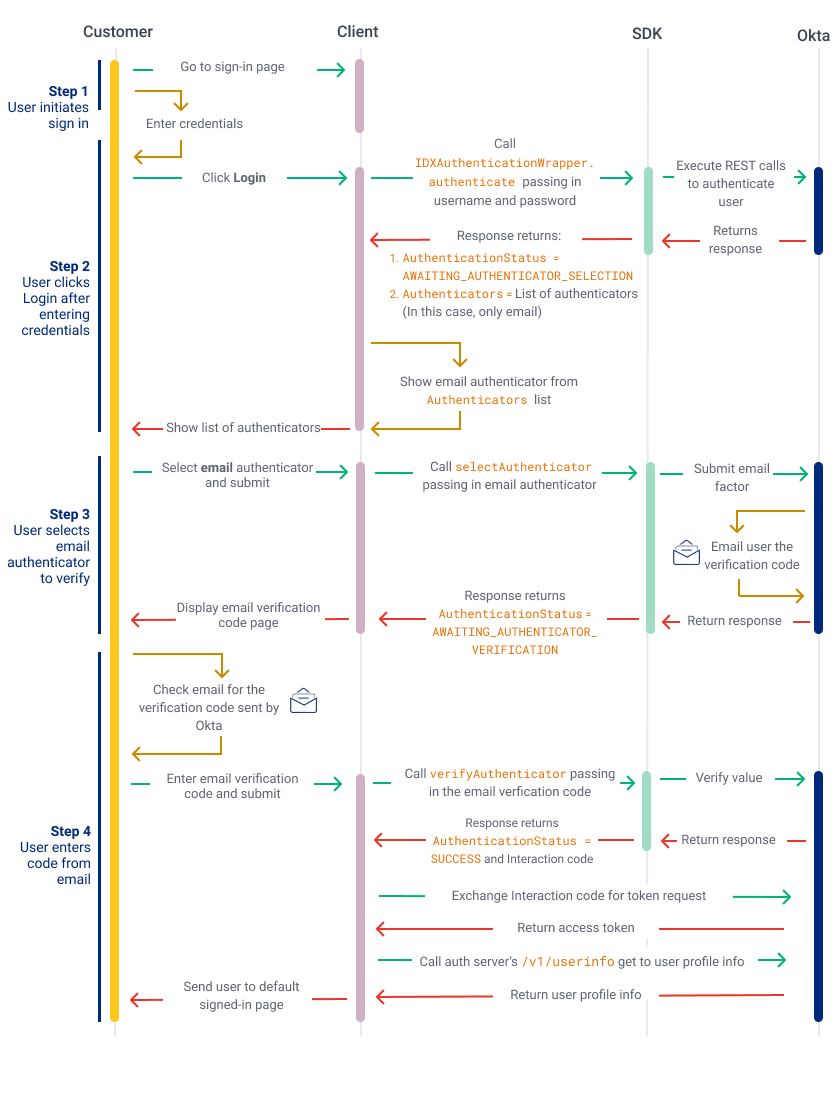
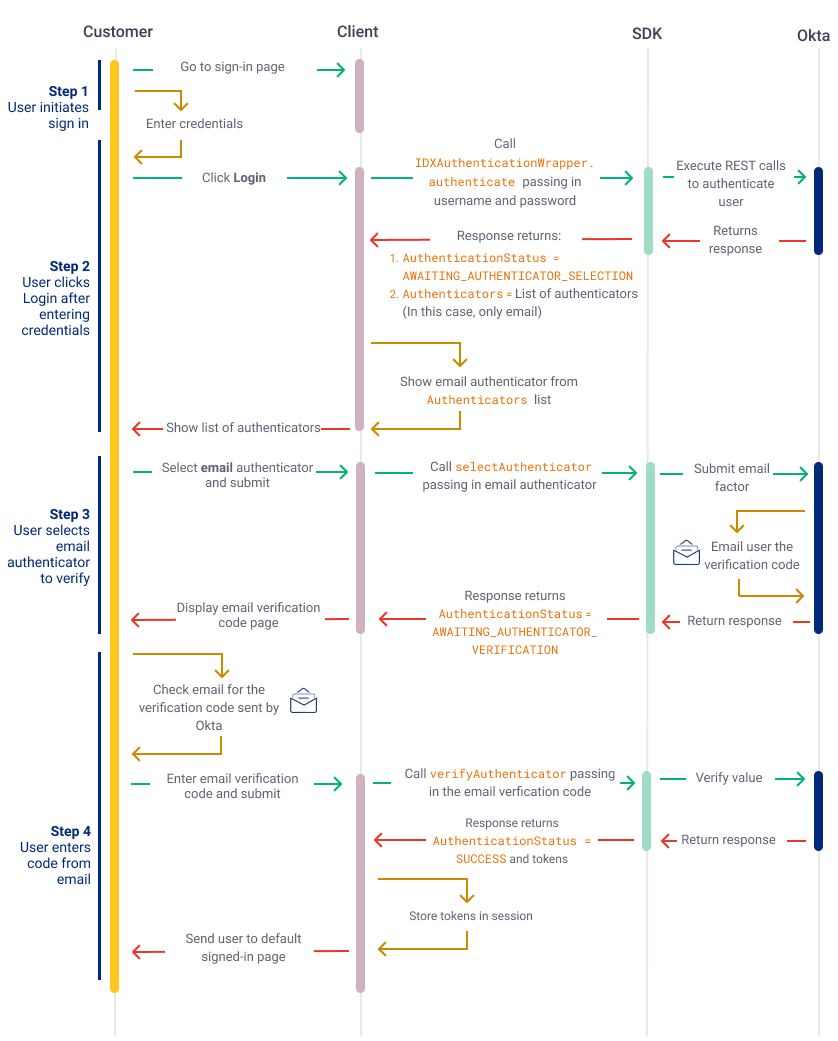
remove /v1/userinfo step in diagram and description

diff --git a/packages/@okta/vuepress-site/docs/guides/oie-embedded-sdk-use-cases/oie-embedded-sdk-use-case-sign-in-pwd-email/java/integrationsteps.md b/packages/@okta/vuepress-site/docs/guides/oie-embedded-sdk-use-cases/oie-embedded-sdk-use-case-sign-in-pwd-email/java/integrationsteps.md
@@ -69,6 +69,4 @@ AuthenticationResponse authenticationResponse =
    idxAuthenticationWrapper.verifyAuthenticator(proceedContext, verifyAuthenticatorOptions);
 ```
 
-If the request to verify the code is successful, the SDK returns an `AuthenticationResponse` object with `AuthenticationStatus=SUCCESS` and the user is successfully signed in.
-
-Use the `AuthenticationResponse.getTokenResponse()` method to retrieve a token to access user profile data before redirecting the user to the default signed-in page. See [Get user profile information after sign in](/docs/guides/oie-embedded-sdk-alternate-flows/java/main/#get-user-profile-information-after-sign-in) for details.
+If the request to verify the code is successful, the SDK returns an `AuthenticationResponse` object with `AuthenticationStatus=SUCCESS` and the user is successfully signed in. Use the `AuthenticationResponse.getTokenResponse()` method to retrieve the required tokens (access, refresh, ID) for authenticated user activity.
